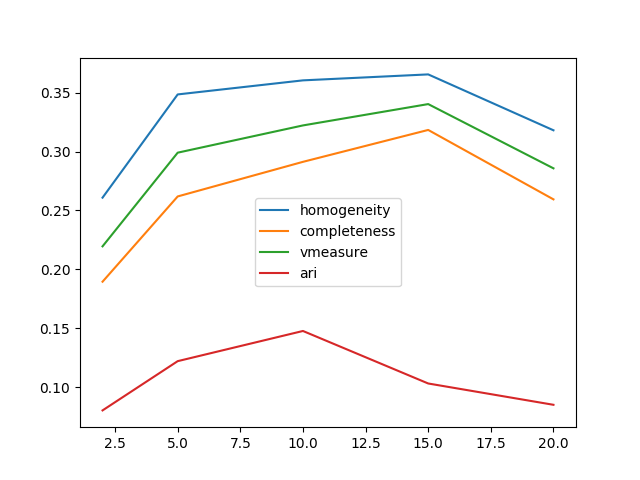
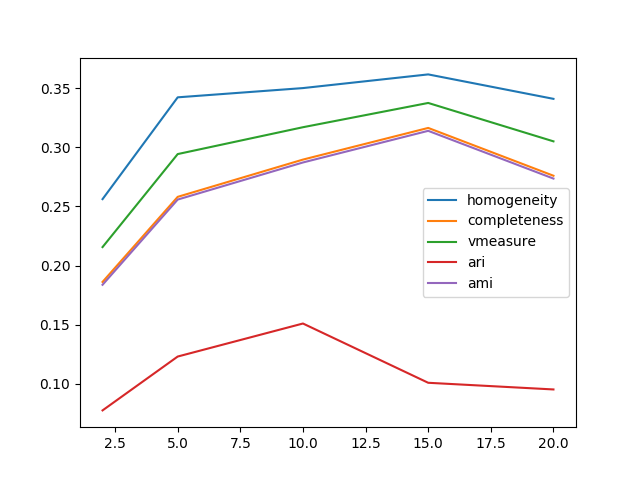
Part 5 and 6 code finalized. Pics updated.

diff --git a/hw4/src/p5_new.py b/hw4/src/p5_new.py
@@ -15,6 +15,8 @@ def mySVD(X):
     completeness = []
     vmeasure = []
     ari = []
+    ami = []
+
     for dimensionality in np.array(n_components):
         print("Desired dimensionality: %d" % dimensionality)
 
@@ -31,6 +33,7 @@ def mySVD(X):
         completeness.append(metrics.completeness_score(labels, kmLSI.labels_))
         vmeasure.append(metrics.v_measure_score(labels, kmLSI.labels_))
         ari.append(metrics.adjusted_rand_score(labels, kmLSI.labels_))
+        ami.append(metrics.adjusted_mutual_info_score(labels, kmLSI.labels_))
 
         print("Homogeneity: %0.3f" % metrics.homogeneity_score(labels, kmLSI.labels_))
         print("Completeness: %0.3f" % metrics.completeness_score(labels, kmLSI.labels_))
@@ -44,7 +47,8 @@ def mySVD(X):
     l2, = plt.plot(n_components, completeness, label='completeness')
     l3, = plt.plot(n_components, vmeasure, label='vmeasure')
     l4, = plt.plot(n_components, ari, label='ari')
-    plt.legend(handles=[l1, l2, l3, l4])
+    l5, = plt.plot(n_components, ami, label='ami')
+    plt.legend(handles=[l1, l2, l3, l4, l5])
     plt.show()
 
     print("------------------------------------------------------------------")
@@ -56,6 +60,7 @@ def myNMF(X):
     completeness = []
     vmeasure = []
     ari = []
+    ami = []
 
     for dimensionality in np.array(n_components):
         print("Desired dimensionality: %d" % dimensionality)
@@ -69,6 +74,7 @@ def myNMF(X):
         completeness.append(metrics.completeness_score(labels, kmNMF.labels_))
         vmeasure.append(metrics.v_measure_score(labels, kmNMF.labels_))
         ari.append(metrics.adjusted_rand_score(labels, kmNMF.labels_))
+        ami.append(metrics.adjusted_mutual_info_score(labels, kmNMF.labels_))
 
         print("Homogeneity: %0.3f" % metrics.homogeneity_score(labels, kmNMF.labels_))
         print("Completeness: %0.3f" % metrics.completeness_score(labels, kmNMF.labels_))
@@ -82,7 +88,8 @@ def myNMF(X):
     l2, = plt.plot(n_components, completeness, label='completeness')
     l3, = plt.plot(n_components, vmeasure, label='vmeasure')
     l4, = plt.plot(n_components, ari, label='ari')
-    plt.legend(handles=[l1, l2, l3, l4])
+    l5, = plt.plot(n_components, ami, label='ami')
+    plt.legend(handles=[l1, l2, l3, l4, l5])
     plt.show()
     print("------------------------------------------------------------------")
 

diff --git a/hw4/src/part6.py b/hw4/src/part6.py
@@ -16,6 +16,7 @@ def mySVD(X):
     completeness = []
     vmeasure = []
     ari = []
+    ami = []
 
     for dimensionality in np.array(n_components):
         print("Desired dimensionality: %d" % dimensionality)
@@ -33,6 +34,7 @@ def mySVD(X):
         completeness.append(metrics.completeness_score(labels, kmLSI.labels_))
         vmeasure.append(metrics.v_measure_score(labels, kmLSI.labels_))
         ari.append(metrics.adjusted_rand_score(labels, kmLSI.labels_))
+        ami.append(metrics.adjusted_mutual_info_score(labels, kmLSI.labels_))
 
         print("Homogeneity: %0.3f" % metrics.homogeneity_score(labels, kmLSI.labels_))
         print("Completeness: %0.3f" % metrics.completeness_score(labels, kmLSI.labels_))
@@ -46,7 +48,8 @@ def mySVD(X):
     l2, = plt.plot(n_components, completeness, label='completeness')
     l3, = plt.plot(n_components, vmeasure, label='vmeasure')
     l4, = plt.plot(n_components, ari, label='ari')
-    plt.legend(handles=[l1, l2, l3, l4])
+    l5, = plt.plot(n_components, ami, label='ami')
+    plt.legend(handles=[l1, l2, l3, l4, l5])
     plt.show()
 
     print("------------------------------------------------------------------")
@@ -58,6 +61,7 @@ def myNMF(X):
     completeness = []
     vmeasure = []
     ari = []
+    ami = []
 
     for dimensionality in np.array(n_components):
         print("Desired dimensionality: %d" % dimensionality)
@@ -72,6 +76,7 @@ def myNMF(X):
         completeness.append(metrics.completeness_score(labels, kmNMF.labels_))
         vmeasure.append(metrics.v_measure_score(labels, kmNMF.labels_))
         ari.append(metrics.adjusted_rand_score(labels, kmNMF.labels_))
+        ami.append(metrics.adjusted_mutual_info_score(labels, kmNMF.labels_))
 
         print("Homogeneity: %0.3f" % metrics.homogeneity_score(labels, kmNMF.labels_))
         print("Completeness: %0.3f" % metrics.completeness_score(labels, kmNMF.labels_))
@@ -85,7 +90,8 @@ def myNMF(X):
     l2, = plt.plot(n_components, completeness, label='completeness')
     l3, = plt.plot(n_components, vmeasure, label='vmeasure')
     l4, = plt.plot(n_components, ari, label='ari')
-    plt.legend(handles=[l1, l2, l3, l4])
+    l5, = plt.plot(n_components, ami, label='ami')
+    plt.legend(handles=[l1, l2, l3, l4, l5])
     plt.show()
     print("------------------------------------------------------------------")
 
